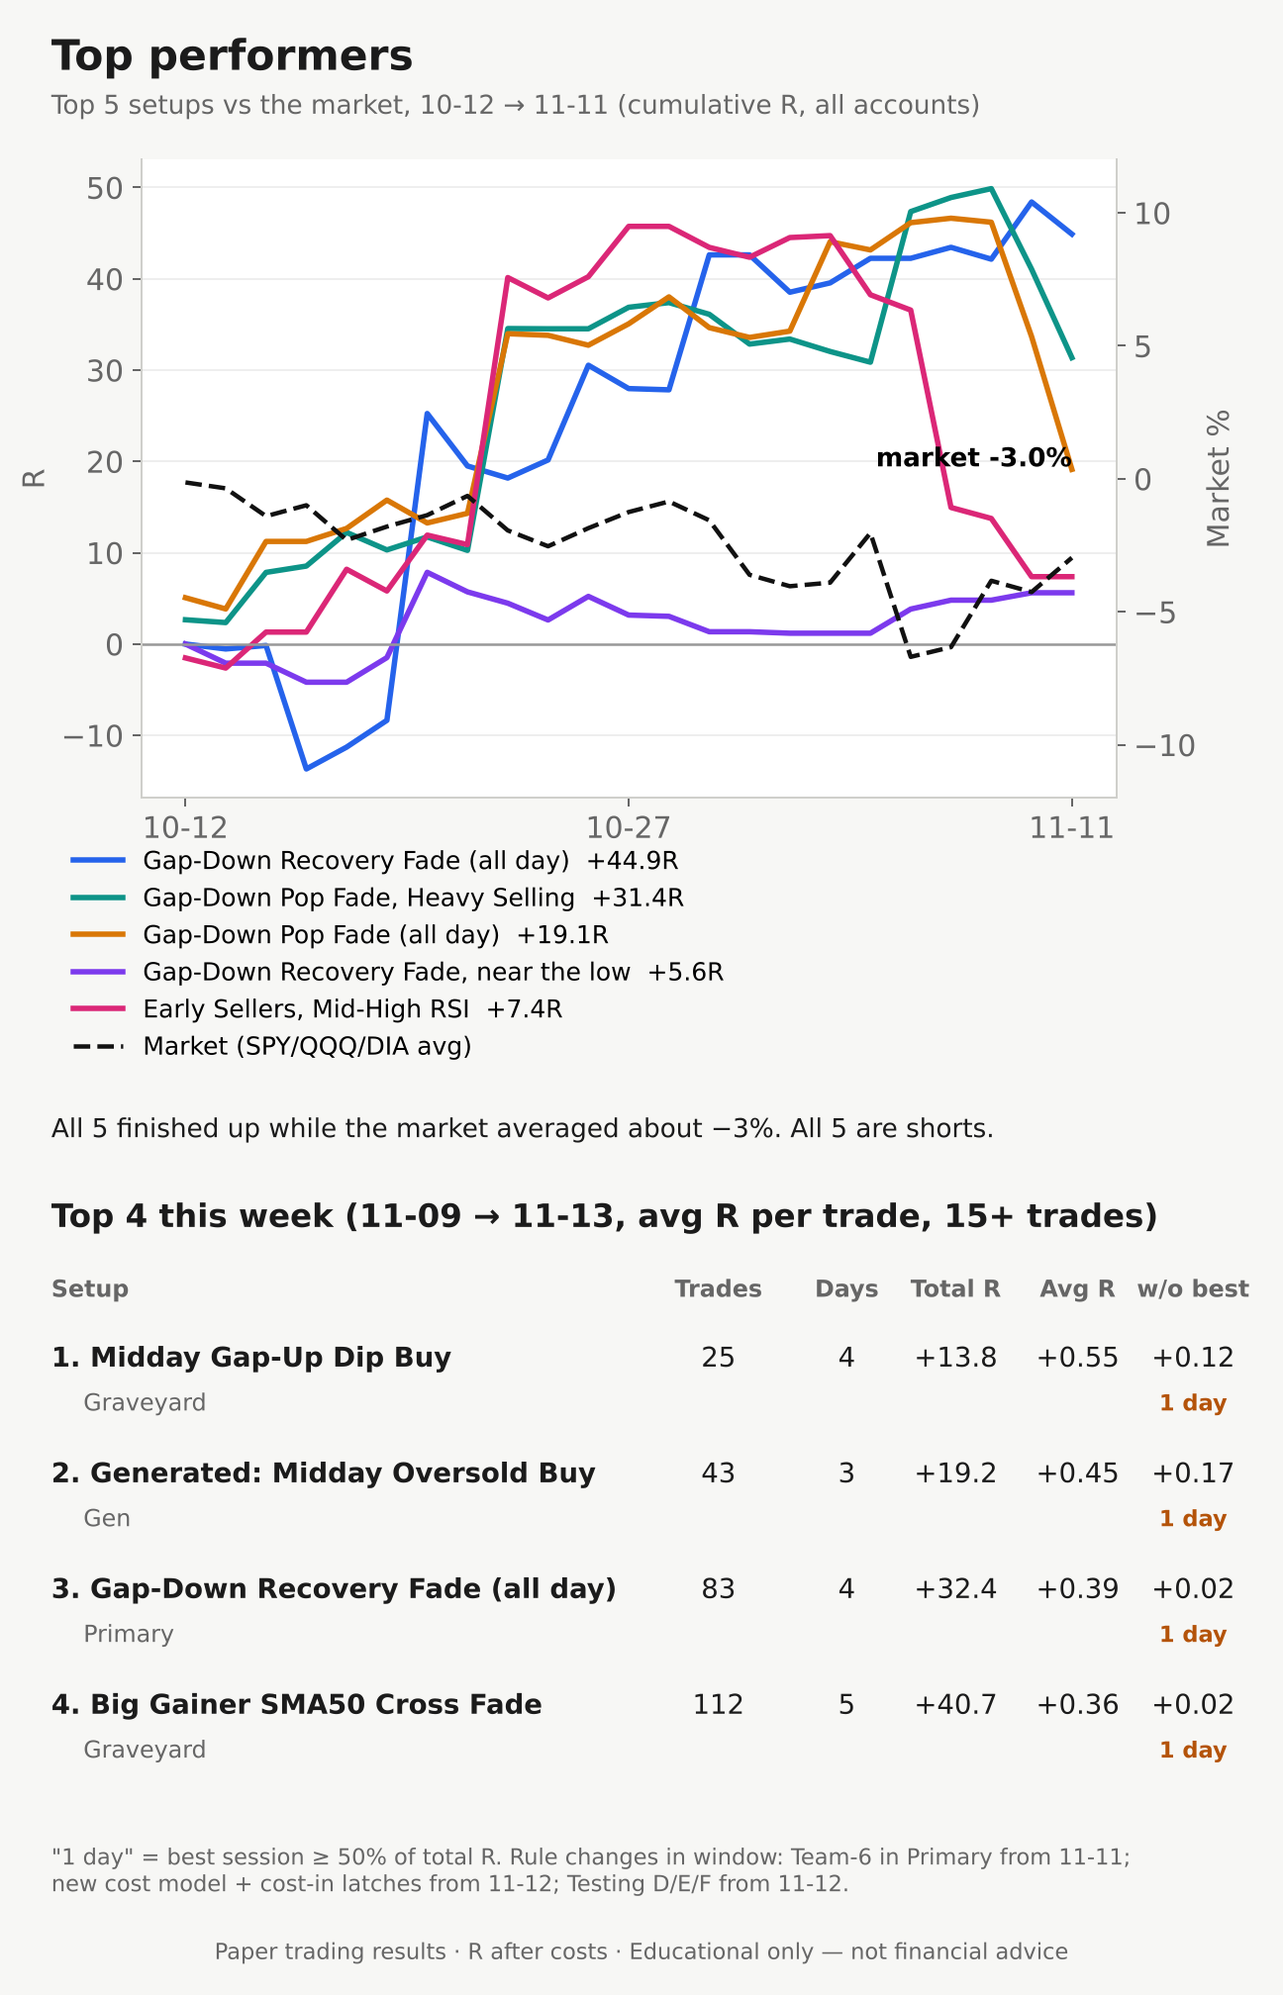
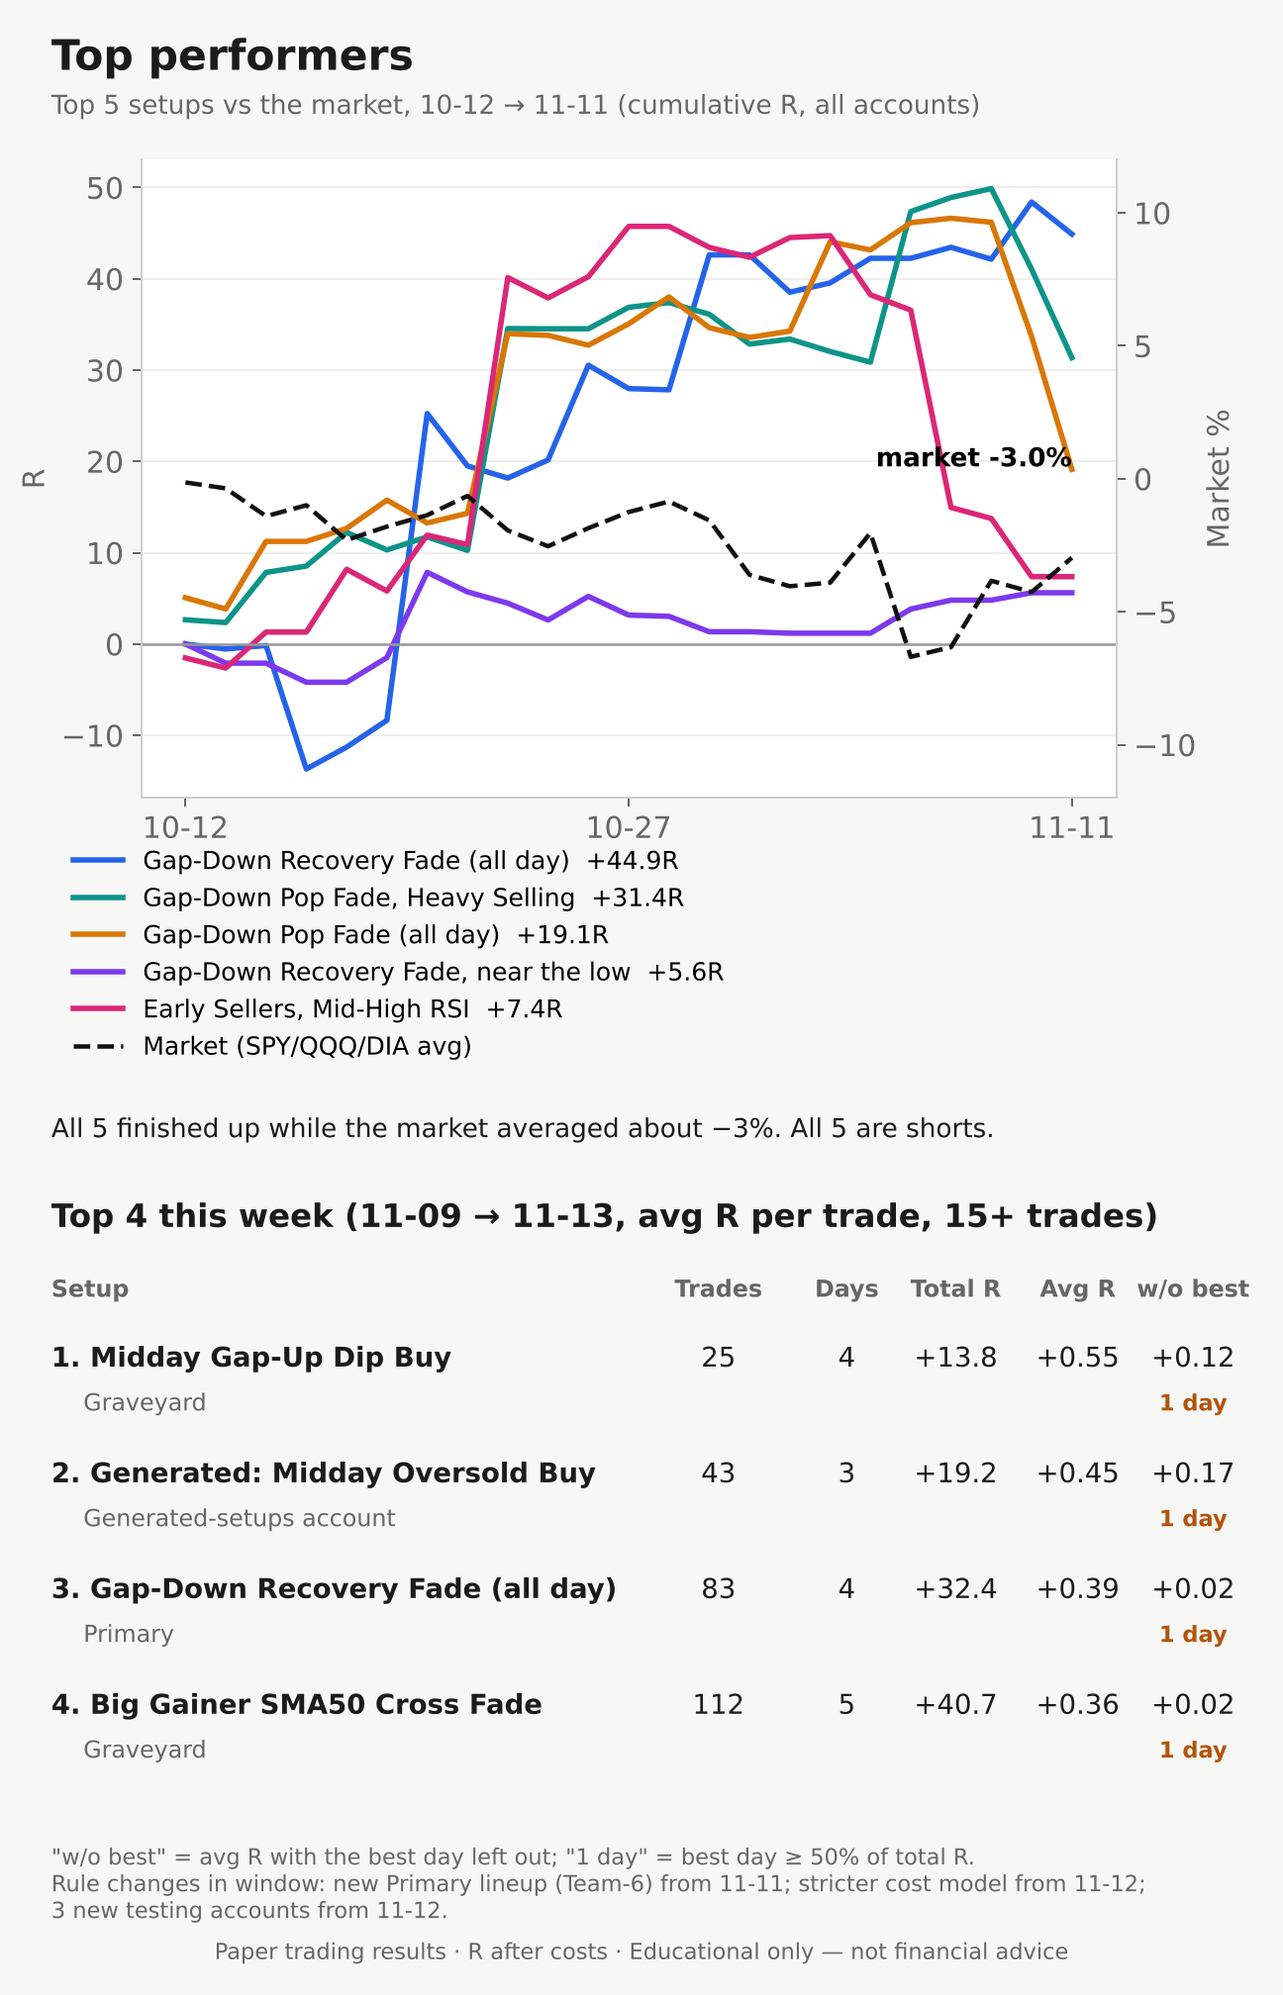
End-of-week post 2026-11-13: rewrite for new readers (where we came from / now / heading)
Same facts and numbers; plain-language definitions (setup, R, Team-6, testing
arena, Graveyard, green streak, shorts). Images 2-3: plain labels (Generated
account, stricter cost model, 3 new testing accounts, higher limits).

Claude-Session: https://claude.ai/code/session_01CMQwXCu5dKxniHABifLz7E

diff --git a/docs/posts/week-2026-11-13/post.html b/docs/posts/week-2026-11-13/post.html
@@ -1,21 +1,25 @@
 <!doctype html><html><head><meta charset='utf-8'><meta name='viewport' content='width=device-width,initial-scale=1'><title>MCF post week-2026-11-13</title><style>body{font:16px/1.5 -apple-system,Segoe UI,Roboto,Helvetica,Arial,sans-serif;color:#111;background:#fff;
 max-width:760px;margin:24px auto;padding:0 16px}p{margin:0 0 14px}ul{margin:0 0 14px;padding-left:22px}li{margin:0 0 4px}
 .hint{font-size:12px;color:#777;border-bottom:1px solid #eee;padding-bottom:8px;margin-bottom:16px}</style></head><body><div class='hint'>Select all below this line and copy - bold and spacing paste as shown.</div><p><b>End of week in the books! (11-09 to 11-13)</b></p>
-<p>Theme of the week: <b>data rules everything — we just needed more numbers.</b></p>
-<p><b>Headline (image 1):</b></p>
-<ul><li><b>+$1,770</b> Primary for the week, but <b>-37.5R</b> on 266 trades; 1 of 5 days green.</li><li><b>+11.8R / +$2,061</b> since the new lineup took over Wed (3 days).</li><li>Running total since Day 1 (10/23): <b>-$442</b> (11-05/11-06 broker glitch excluded).</li><li>R and avg R per trade come first for us, ahead of $ and win rate. One bad day is one data point. <b>Don&#x27;t be deflated by one bad day.</b></li></ul>
-<p><b>Wins (image 2):</b></p>
-<ul><li><b>Top 5 vs the market (10-12 to 11-11):</b> all 5 finished up while the market averaged about -3% (SPY -2.4%, QQQ -8.1%, DIA +1.6%). All 5 are shorts.</li><li><b>+44.9R</b> Gap-Down Recovery Fade (all day): stock gaps down, rallies hard off the open, we short the rally.</li><li><b>+31.4R / +19.1R</b> Gap-Down Pop Fade (Heavy Selling / all day): gap-down stock pops while sellers are still in charge; short the pop.</li><li>Big days show what these setups can do — and every record already includes its worst day too; without either extreme, 3 of the 5 still average +0.7 to +1.4R per session.</li></ul>
-<p><b>Top 4 this week (avg R per trade):</b></p>
-<ul><li><b>+0.55R</b> Midday Gap-Up Dip Buy (Graveyard): a gap-up stock pulls back hard midday; buy the dip.</li><li><b>+0.45R</b> Generated: Midday Oversold Buy (Gen): stock deeply oversold midday starts turning up; buy.</li><li><b>+0.39R</b> Gap-Down Recovery Fade (all day) (Primary): same as above.</li><li><b>+0.36R</b> Big Gainer SMA50 Cross Fade (Graveyard): stock up 3%+ gets stretched above its average; short.</li><li><b>All 4 lean on one big day (Thu) — tagged &quot;1 day&quot;.</b></li></ul>
-<p><b>Best green streaks (sessions with no trade don&#x27;t count either way):</b></p>
-<ul><li><b>6 in a row, +14.9R</b> Gap-Down Rebound Overbought Short (all day), Testing 1/2 (38 trades; best day 54%, 1 day). Ended.</li><li><b>6, +12.0R</b> Gap-Down Bounce Short, Heavy Selling (all day), Testing 2 (33 trades). Ended.</li><li><b>6, +7.3R</b> Gap-Down VWAP Loss Short (10% gap), Testing 2 / Live Lab (12 trades). Ended.</li><li><b>6, +3.9R</b> Late-Day ETF Dip Buy, Live Lab then Primary (11 trades). <b>Still running.</b></li></ul>
-<p><b>Primary: Team-6 vs the old picks:</b></p>
-<ul><li>Mon/Tue we gave the plan two out-of-sample days; Team-6 beat Primary both days, so it became Primary&#x27;s lineup Wed.</li><li><b>Before (10-06 to 11-10):</b> Team-6 setups +135.6R, 17 of 23 days green, worst -15.9R vs old Primary picks -100.5R, 7 of 26 green, worst -31.2R.</li><li><b>Since 10-29 (-2R stop era):</b> +23.8R vs -88.4R.</li><li><b>Live Wed-Fri (the real test):</b> +11.8R. The old picks that left, same 3 days in their new homes: -2.3R.</li><li><b>Caveats: &quot;before&quot; is in-sample (picked on that record), pooled across accounts, R not $.</b></li><li>The rules were in the room the whole time: the -2R &quot;one setup, one bad day, it sits out&quot; stop, ~$4k position size, the -20R account halt that fired 11-06, promotion = move, Testing 1 = Testing 2, and the one-big-day check that keeps us honest above.</li><li>-2R stop re-tested (79 versions, 22,543 trades): -2R stays. Nothing changed.</li></ul>
-<p><b>Growth (image 3):</b></p>
-<ul><li><b>1,243 trades/day</b> across all accounts this week vs <b>924</b> the two weeks before (+35%); Thu-Fri <b>1,597</b>.</li><li><b>13 setups</b> got multiple trades or sessions for the first time.</li><li>3 new testing accounts (Testing D, E, F): non-Primary trades/session <b>+64%</b>, traded setups/session <b>+14%</b> (Thu-Fri vs Mon-Wed). D/E/F alone add ~159 trades and 14 setups a day; the rest came from same-night unlocks.</li><li>Every four days, our least-tested setups get a turn in the spotlight; the best move up.</li><li><b>Back to the arena:</b> Big Gainer SMA50 Cross Fade (+19.1R last 10 sessions) and EMA-Down Morning Buy (+7.9R, 22 trades) came out of the Graveyard. A parking spot, not a dead end.</li></ul>
-<p><b>Rule changes in the window:</b></p>
-<ul><li>Team-6 in Primary from 11-11; new cost model + cost-in latches from 11-12 (R from then not directly comparable); Testing D/E/F from 11-12.</li><li>Fri started late (09:46); a Gen/Graveyard close-out glitch is kept out of the records.</li></ul>
+<p><b>What this is:</b></p>
+<ul><li>An automated day-trading system built and run with Claude (AI), on paper money (no real money yet).</li><li>It tests hundreds of &quot;setups&quot; (a setup = one rule for when to buy or sell a stock and when to get out) in 10 practice accounts.</li><li>Top setups graduate to the main account, <b>Primary</b>.</li></ul>
+<p><b>Where we came from:</b></p>
+<ul><li>Live paper trading began mid-October; Primary since 10/23: <b>-$442</b> (Alpaca, our paper broker; 11-05/11-06 glitch excluded).</li><li>One big day can fool you, so we judge by <b>R</b>: a trade&#x27;s result in units of what we risked, after costs (+1R = made what we risked).</li><li>R and avg R per trade beat $ and win rate. <b>Don&#x27;t be deflated by one bad day.</b></li></ul>
+<p><b>What we&#x27;re doing now:</b></p>
+<ul><li><b>New Primary lineup, &quot;Team-6&quot;:</b> six setups with the best live records; it beat Primary in a Mon/Tue test and took over Wed.</li><li><b>Before (10-06 to 11-10):</b> Team-6 +135.6R, 17 of 23 days green, worst -15.9R vs old Primary picks -100.5R, 7 of 26 green, worst -31.2R. Since 10-29 (-2R stop in Primary): +23.8R vs -88.4R.</li><li><b>First 3 live days (real test): +11.8R / +$2,061</b> — mostly Thu&#x27;s +39.9R. Departed picks, same days: -2.3R.</li><li><b>Caveats: &quot;before&quot; = what they were picked on; pooled accounts; R not $.</b></li><li><b>The testing arena:</b> where every setup gets fair playing time (Testing 1 = Testing 2), plus new Testing D, E, F.</li><li>Every four days, our least-tested setups get a turn in the spotlight; the best move up.</li><li><b>The Graveyard:</b> weak setups&#x27; home, still trading. Two came back: Big Gainer SMA50 Cross Fade (+19.1R last 10 sessions), EMA-Down Morning Buy (+7.9R, 22 trades). A parking spot, not a dead end.</li></ul>
+<p><b>This week&#x27;s numbers:</b></p>
+<ul><li><b>Primary (image 1; starred Mon/Tue = old lineup): +$1,770 but -37.5R</b> on 266 trades; 1 of 5 days green.</li><li><b>Top 5 vs the market (image 2, 10-12 to 11-11):</b> all 5 finished up while the market averaged about -3% (SPY -2.4%, QQQ -8.1%, DIA +1.6%). All 5 are shorts.</li><li><b>+44.9R</b> Gap-Down Recovery Fade: short a gap-down rally off the open.</li><li><b>+31.4R / +19.1R</b> Gap-Down Pop Fade (Heavy Selling / all day): short a gap-down pop while sellers rule.</li><li>Big days show potential; records include worst days too: without either, 3 of 5 still average +0.7 to +1.4R/session.</li></ul>
+<p><b>Top 4 this week (avg R/trade):</b></p>
+<ul><li><b>+0.55R</b> Midday Gap-Up Dip Buy (Graveyard): buy a gap-up&#x27;s hard midday dip.</li><li><b>+0.45R</b> Generated: Midday Oversold Buy (computer-made setups account): buy a deeply oversold stock turning up.</li><li><b>+0.39R</b> Gap-Down Recovery Fade (Primary).</li><li><b>+0.36R</b> Big Gainer SMA50 Cross Fade (Graveyard): short a 3%+ gainer stretched above its 50-day average.</li><li><b>All 4 lean on one big day (Thu) — tagged &quot;1 day&quot;.</b></li></ul>
+<p><b>Best green streaks (positive sessions in a row, no-trade days skipped; all ended but the last):</b></p>
+<ul><li><b>6, +14.9R</b> Gap-Down Rebound Overbought Short, Testing 1/2 (38 trades; best day 54%, 1 day).</li><li><b>6, +12.0R</b> Gap-Down Bounce Short, Heavy Selling, Testing 2 (33 trades).</li><li><b>6, +7.3R</b> Gap-Down VWAP Loss Short (10% gap), Testing 2 / Live Lab (low-trade home; 12 trades).</li><li><b>6, +3.9R</b> Late-Day ETF Dip Buy, Live Lab then Primary (11 trades). <b>Still running.</b></li></ul>
+<p><b>More numbers (image 3) — data rules everything:</b></p>
+<ul><li><b>1,243 trades/day</b> (all accounts) vs <b>924</b> the prior two weeks (+35%); Thu-Fri <b>1,597</b>. <b>13 setups</b> got multiple trades or sessions for the first time.</li><li>Outside Primary (Thu-Fri vs Mon-Wed): trades/session <b>+64%</b>, setups/session <b>+14%</b>; D/E/F add ~159 trades and 14 setups a day, raised limits the rest.</li></ul>
+<p><b>Our rules:</b></p>
+<ul><li><b>R:</b> every result vs what we risked.</li><li><b>-2R daily stop per setup:</b> one bad day, it sits out. Re-tested (79 versions, 22,543 trades): kept.</li><li><b>-20R account stop:</b> no new trades that day (fired 11-06).</li><li><b>Costs always counted;</b> ~$4k a position; <b>paper before real money.</b></li><li><b>By the numbers:</b> setups move up or down on their records (a move, never a copy), checked without their best day.</li><li><b>The Graveyard never deletes.</b></li></ul>
+<p><b>Where we&#x27;re heading:</b></p>
+<ul><li><b>Winning on up days too:</b> our best setups are shorts (they profit when a stock falls). Next: profiting from rising markets, e.g. leveraged index ETFs (funds moving 2-3x the market).</li><li><b>The Workbench:</b> take a setup apart piece by piece to build better versions.</li></ul>
+<p><b>Rule changes:</b> Team-6 11-11; D/E/F, new cost model 11-12 (R not directly comparable). Fri started 09:46; close-out glitch excluded.</p>
 <p>As always, thanks so much for the support and input!</p>
 <p>Fun stuff!</p>
 <p>Educational only — not financial advice.</p></body></html>

diff --git a/docs/posts/week-2026-11-13/post.md b/docs/posts/week-2026-11-13/post.md
@@ -1,58 +1,70 @@
 **End of week in the books! (11-09 to 11-13)**
 
-Theme of the week: **data rules everything — we just needed more numbers.**
+**What this is:**
 
-**Headline (image 1):**
+- An automated day-trading system built and run with Claude (AI), on paper money (no real money yet).
+- It tests hundreds of "setups" (a setup = one rule for when to buy or sell a stock and when to get out) in 10 practice accounts.
+- Top setups graduate to the main account, **Primary**.
 
-- **+$1,770** Primary for the week, but **-37.5R** on 266 trades; 1 of 5 days green.
-- **+11.8R / +$2,061** since the new lineup took over Wed (3 days).
-- Running total since Day 1 (10/23): **-$442** (11-05/11-06 broker glitch excluded).
-- R and avg R per trade come first for us, ahead of $ and win rate. One bad day is one data point. **Don't be deflated by one bad day.**
+**Where we came from:**
 
-**Wins (image 2):**
+- Live paper trading began mid-October; Primary since 10/23: **-$442** (Alpaca, our paper broker; 11-05/11-06 glitch excluded).
+- One big day can fool you, so we judge by **R**: a trade's result in units of what we risked, after costs (+1R = made what we risked).
+- R and avg R per trade beat $ and win rate. **Don't be deflated by one bad day.**
 
-- **Top 5 vs the market (10-12 to 11-11):** all 5 finished up while the market averaged about -3% (SPY -2.4%, QQQ -8.1%, DIA +1.6%). All 5 are shorts.
-- **+44.9R** Gap-Down Recovery Fade (all day): stock gaps down, rallies hard off the open, we short the rally.
-- **+31.4R / +19.1R** Gap-Down Pop Fade (Heavy Selling / all day): gap-down stock pops while sellers are still in charge; short the pop.
-- Big days show what these setups can do — and every record already includes its worst day too; without either extreme, 3 of the 5 still average +0.7 to +1.4R per session.
+**What we're doing now:**
 
-**Top 4 this week (avg R per trade):**
+- **New Primary lineup, "Team-6":** six setups with the best live records; it beat Primary in a Mon/Tue test and took over Wed.
+- **Before (10-06 to 11-10):** Team-6 +135.6R, 17 of 23 days green, worst -15.9R vs old Primary picks -100.5R, 7 of 26 green, worst -31.2R. Since 10-29 (-2R stop in Primary): +23.8R vs -88.4R.
+- **First 3 live days (real test): +11.8R / +$2,061** — mostly Thu's +39.9R. Departed picks, same days: -2.3R.
+- ***Caveats: "before" = what they were picked on; pooled accounts; R not $.***
+- **The testing arena:** where every setup gets fair playing time (Testing 1 = Testing 2), plus new Testing D, E, F.
+- Every four days, our least-tested setups get a turn in the spotlight; the best move up.
+- **The Graveyard:** weak setups' home, still trading. Two came back: Big Gainer SMA50 Cross Fade (+19.1R last 10 sessions), EMA-Down Morning Buy (+7.9R, 22 trades). A parking spot, not a dead end.
 
-- **+0.55R** Midday Gap-Up Dip Buy (Graveyard): a gap-up stock pulls back hard midday; buy the dip.
-- **+0.45R** Generated: Midday Oversold Buy (Gen): stock deeply oversold midday starts turning up; buy.
-- **+0.39R** Gap-Down Recovery Fade (all day) (Primary): same as above.
-- **+0.36R** Big Gainer SMA50 Cross Fade (Graveyard): stock up 3%+ gets stretched above its average; short.
+**This week's numbers:**
+
+- **Primary (image 1; starred Mon/Tue = old lineup): +$1,770 but -37.5R** on 266 trades; 1 of 5 days green.
+- **Top 5 vs the market (image 2, 10-12 to 11-11):** all 5 finished up while the market averaged about -3% (SPY -2.4%, QQQ -8.1%, DIA +1.6%). All 5 are shorts.
+- **+44.9R** Gap-Down Recovery Fade: short a gap-down rally off the open.
+- **+31.4R / +19.1R** Gap-Down Pop Fade (Heavy Selling / all day): short a gap-down pop while sellers rule.
+- Big days show potential; records include worst days too: without either, 3 of 5 still average +0.7 to +1.4R/session.
+
+**Top 4 this week (avg R/trade):**
+
+- **+0.55R** Midday Gap-Up Dip Buy (Graveyard): buy a gap-up's hard midday dip.
+- **+0.45R** Generated: Midday Oversold Buy (computer-made setups account): buy a deeply oversold stock turning up.
+- **+0.39R** Gap-Down Recovery Fade (Primary).
+- **+0.36R** Big Gainer SMA50 Cross Fade (Graveyard): short a 3%+ gainer stretched above its 50-day average.
 - ***All 4 lean on one big day (Thu) — tagged "1 day".***
 
-**Best green streaks (sessions with no trade don't count either way):**
+**Best green streaks (positive sessions in a row, no-trade days skipped; all ended but the last):**
 
-- **6 in a row, +14.9R** Gap-Down Rebound Overbought Short (all day), Testing 1/2 (38 trades; best day 54%, 1 day). Ended.
-- **6, +12.0R** Gap-Down Bounce Short, Heavy Selling (all day), Testing 2 (33 trades). Ended.
-- **6, +7.3R** Gap-Down VWAP Loss Short (10% gap), Testing 2 / Live Lab (12 trades). Ended.
+- **6, +14.9R** Gap-Down Rebound Overbought Short, Testing 1/2 (38 trades; best day 54%, 1 day).
+- **6, +12.0R** Gap-Down Bounce Short, Heavy Selling, Testing 2 (33 trades).
+- **6, +7.3R** Gap-Down VWAP Loss Short (10% gap), Testing 2 / Live Lab (low-trade home; 12 trades).
 - **6, +3.9R** Late-Day ETF Dip Buy, Live Lab then Primary (11 trades). **Still running.**
 
-**Primary: Team-6 vs the old picks:**
+**More numbers (image 3) — data rules everything:**
 
-- Mon/Tue we gave the plan two out-of-sample days; Team-6 beat Primary both days, so it became Primary's lineup Wed.
-- **Before (10-06 to 11-10):** Team-6 setups +135.6R, 17 of 23 days green, worst -15.9R vs old Primary picks -100.5R, 7 of 26 green, worst -31.2R.
-- **Since 10-29 (-2R stop era):** +23.8R vs -88.4R.
-- **Live Wed-Fri (the real test):** +11.8R. The old picks that left, same 3 days in their new homes: -2.3R.
-- ***Caveats: "before" is in-sample (picked on that record), pooled across accounts, R not $.***
-- The rules were in the room the whole time: the -2R "one setup, one bad day, it sits out" stop, ~$4k position size, the -20R account halt that fired 11-06, promotion = move, Testing 1 = Testing 2, and the one-big-day check that keeps us honest above.
-- -2R stop re-tested (79 versions, 22,543 trades): -2R stays. Nothing changed.
+- **1,243 trades/day** (all accounts) vs **924** the prior two weeks (+35%); Thu-Fri **1,597**. **13 setups** got multiple trades or sessions for the first time.
+- Outside Primary (Thu-Fri vs Mon-Wed): trades/session **+64%**, setups/session **+14%**; D/E/F add ~159 trades and 14 setups a day, raised limits the rest.
 
-**Growth (image 3):**
+**Our rules:**
 
-- **1,243 trades/day** across all accounts this week vs **924** the two weeks before (+35%); Thu-Fri **1,597**.
-- **13 setups** got multiple trades or sessions for the first time.
-- 3 new testing accounts (Testing D, E, F): non-Primary trades/session **+64%**, traded setups/session **+14%** (Thu-Fri vs Mon-Wed). D/E/F alone add ~159 trades and 14 setups a day; the rest came from same-night unlocks.
-- Every four days, our least-tested setups get a turn in the spotlight; the best move up.
-- **Back to the arena:** Big Gainer SMA50 Cross Fade (+19.1R last 10 sessions) and EMA-Down Morning Buy (+7.9R, 22 trades) came out of the Graveyard. A parking spot, not a dead end.
+- **R:** every result vs what we risked.
+- **-2R daily stop per setup:** one bad day, it sits out. Re-tested (79 versions, 22,543 trades): kept.
+- **-20R account stop:** no new trades that day (fired 11-06).
+- **Costs always counted;** ~$4k a position; **paper before real money.**
+- **By the numbers:** setups move up or down on their records (a move, never a copy), checked without their best day.
+- **The Graveyard never deletes.**
 
-**Rule changes in the window:**
+**Where we're heading:**
 
-- Team-6 in Primary from 11-11; new cost model + cost-in latches from 11-12 (R from then not directly comparable); Testing D/E/F from 11-12.
-- Fri started late (09:46); a Gen/Graveyard close-out glitch is kept out of the records.
+- **Winning on up days too:** our best setups are shorts (they profit when a stock falls). Next: profiting from rising markets, e.g. leveraged index ETFs (funds moving 2-3x the market).
+- **The Workbench:** take a setup apart piece by piece to build better versions.
+
+**Rule changes:** Team-6 11-11; D/E/F, new cost model 11-12 (R not directly comparable). Fri started 09:46; close-out glitch excluded.
 
 As always, thanks so much for the support and input!
 
